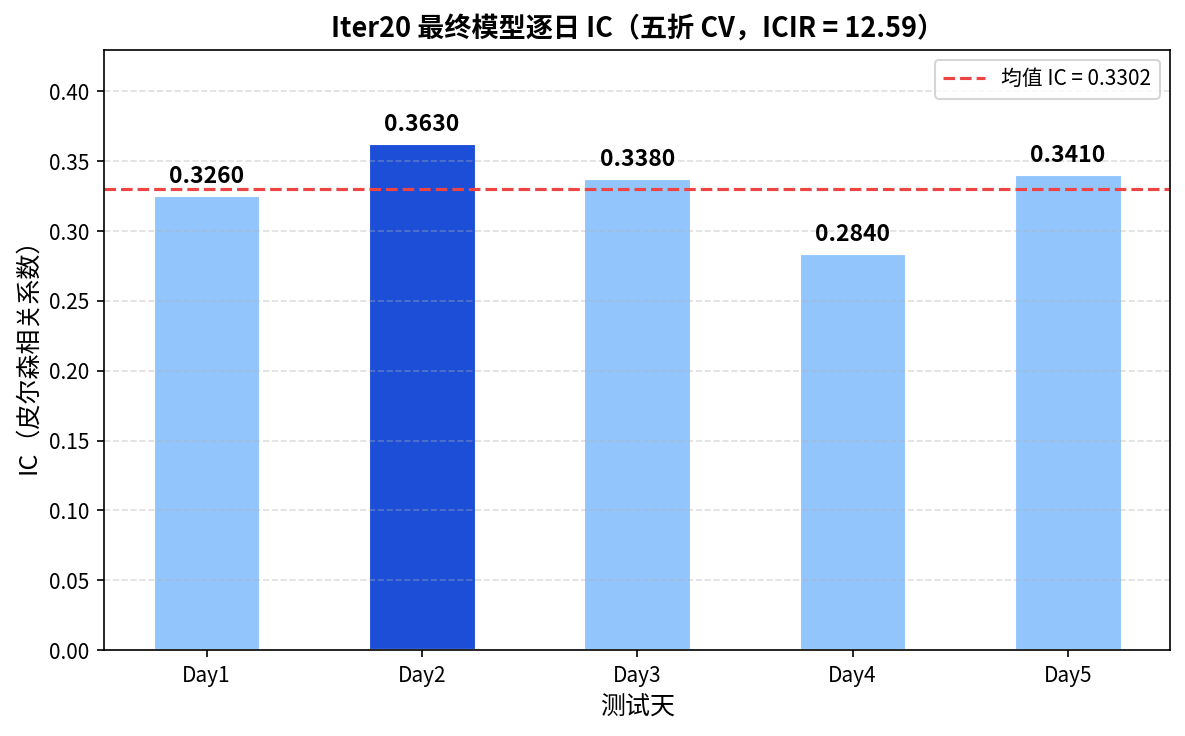
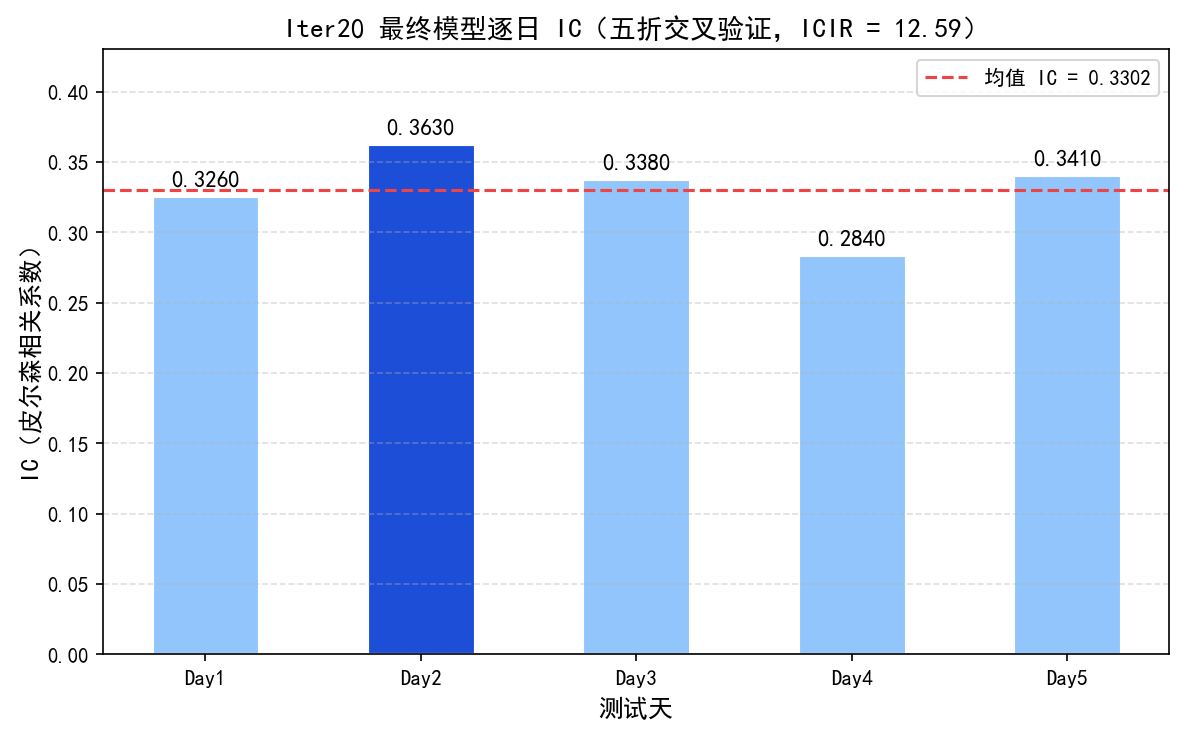
修订稿

diff --git a/report/generate_figures.py b/report/generate_figures.py
@@ -173,10 +173,11 @@ def plot_ic_evolution():
 
     # 标注关键里程碑
     milestones = {
-        4:  ('引入集成\n+日内时间', 'below'),
+        0:  ('简单线性模型\nbaseline', 'below'),
+        2:  ('引入多个特征\n达到单模型峰值', 'above'),
+        4:  ('模型动态集成\n+日内时间特征', 'above'),
         9:  ('累计流量\n+交互特征', 'above'),
-        10: ('突破IC=0.30', 'above'),
-        20: ('反过拟合\nLOO剪枝', 'above'),
+        20: ('反过拟合\nLOO剪枝', 'below'),
     }
     for it, (label, pos) in milestones.items():
         y  = ITER_IC[it]
@@ -203,17 +204,6 @@ def plot_ic_evolution():
     ax.set_ylim(0.10, 0.38)
     ax.grid(True, linestyle='--', alpha=0.4)
     ax.legend(fontsize=10)
-
-    # 最终结果标注
-    ax.annotate(
-        f'IC = {ITER_IC[20]:.4f}\nICIR = {ITER20_ICIR:.2f}',
-        xy=(20, ITER_IC[20]),
-        xytext=(17.5, 0.345),
-        fontsize=9,
-        color='#1D4ED8',
-        bbox=dict(boxstyle='round,pad=0.3', facecolor='#EFF6FF', edgecolor='#3B82F6'),
-        arrowprops=dict(arrowstyle='->', color='#1D4ED8', lw=1.5),
-    )
 
     plt.tight_layout()
     path = os.path.join(OUT_DIR, 'fig1_ic_evolution.png')
@@ -250,7 +240,7 @@ def plot_final_cv():
 
     ax.set_xlabel('测试天', fontsize=12)
     ax.set_ylabel('IC（皮尔森相关系数）', fontsize=12)
-    ax.set_title(f'Iter20 最终模型逐日 IC（五折 CV，ICIR = {ITER20_ICIR}）',
+    ax.set_title(f'Iter20 最终模型逐日 IC（五折交叉验证，ICIR = {ITER20_ICIR}）',
                  fontsize=13, fontweight='bold')
     ax.set_ylim(0, 0.43)
     ax.grid(axis='y', linestyle='--', alpha=0.4)
@@ -423,5 +413,4 @@ if __name__ == '__main__':
     plot_feature_categories()
     plot_iteration_comparison()
     plot_ensemble_gain()
-    plot_system_architecture()
     print("All figures generated successfully.")
